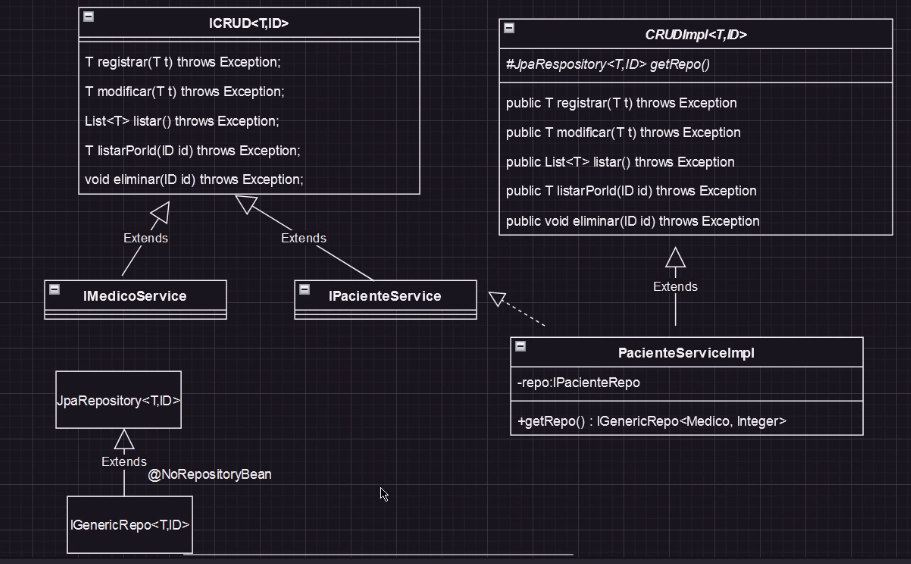
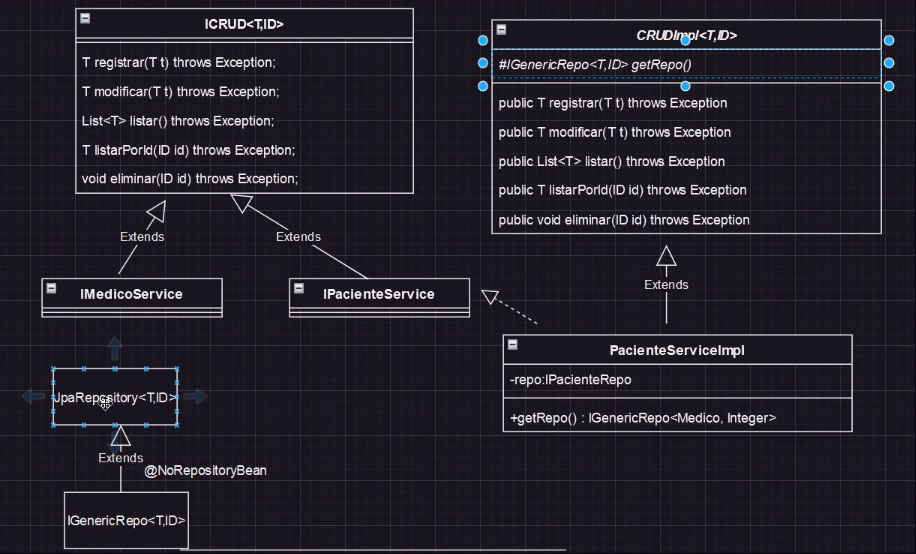
dia6v4

diff --git a/WorkSpace/Spring/Lambdas23-05-2023/src/main/java/com/softtek/lambdas23052023/Lambdas23052023Application.java b/WorkSpace/Spring/Lambdas23-05-2023/src/main/java/com/softtek/lambdas23052023/Lambdas23052023Application.java
@@ -1,6 +1,7 @@
 package com.softtek.lambdas23052023;
 
 import com.softtek.lambdas23052023.controller.Controller;
+import com.softtek.lambdas23052023.dto.ProductDto;
 import com.softtek.lambdas23052023.model.Customer;
 import com.softtek.lambdas23052023.model.Order;
 import com.softtek.lambdas23052023.model.Product;
@@ -28,6 +29,7 @@ public class Lambdas23052023Application implements CommandLineRunner {
         List<Product> products = c.listAllProducts();
         List<Order> orders = c.listAllOrders();
         List<Customer> customers = c.listAllCustomers();
+        List<ProductDto> productDtos = c.listProductsDto();
 
 //        --Obtener todos los registros y todos los campos de la tabla de productos
         products.stream().forEach(System.out::println);
@@ -233,5 +235,29 @@ public class Lambdas23052023Application implements CommandLineRunner {
                 .stream()
                 .filter(e -> e.getValue() < 100)
                 .forEach(er-> System.out.println(er.getKey()+":"+er.getValue()));
+
+        System.out.println("Cosas con DTOs:");
+        //Ejercicios con DTOs
+        //--Obtener el precio promedio por proveedor de la tabla de productos
+        productDtos.stream()
+                .collect(Collectors.groupingBy(
+                        ProductDto::getSupplierId,
+                        Collectors.averagingDouble(ProductDto::getUnitPrice)))
+                .forEach((a,b)-> System.out.println(a+":"+b));
+        System.out.println();
+        //--Obtener la suma de inventario (UnitsInStock) por SupplierID De la tabla de productos (Products)
+        productDtos.stream()
+                .collect(Collectors.groupingBy(
+                        ProductDto::getSupplierId,
+                        Collectors.summingInt(ProductDto::getUnitsInStock)))
+                .forEach((a,b)-> System.out.println(a+":"+b));
+        System.out.println();
+        //--obtener el precio promedio de los productos por categoria sin contar con los productos descontinuados (Discontinued)
+        productDtos.stream()
+                .filter(p -> p.getDiscontinued()==1)
+                .collect(Collectors.groupingBy(
+                        ProductDto::getCategoryId,
+                        Collectors.averagingDouble(ProductDto::getUnitPrice)))
+                .forEach((a,b) -> System.out.println(a+":"+b));
     }
 }

diff --git a/WorkSpace/Spring/Lambdas23-05-2023/src/main/java/com/softtek/lambdas23052023/controller/Controller.java b/WorkSpace/Spring/Lambdas23-05-2023/src/main/java/com/softtek/lambdas23052023/controller/Controller.java
@@ -1,14 +1,18 @@
 package com.softtek.lambdas23052023.controller;
 
+import com.softtek.lambdas23052023.dto.ProductDto;
 import com.softtek.lambdas23052023.model.Customer;
 import com.softtek.lambdas23052023.model.Order;
 import com.softtek.lambdas23052023.model.Product;
 import com.softtek.lambdas23052023.service.ICustomerService;
 import com.softtek.lambdas23052023.service.IOrderService;
 import com.softtek.lambdas23052023.service.IProductService;
+import com.softtek.lambdas23052023.utils.MapperConfig;
+import org.modelmapper.ModelMapper;
 import org.springframework.beans.factory.annotation.Autowired;
 
 import java.util.List;
+import java.util.stream.Collectors;
 
 @org.springframework.stereotype.Controller
 public class Controller {
@@ -18,6 +22,8 @@ public class Controller {
     private IOrderService os;
     @Autowired
     private ICustomerService cs;
+    @Autowired
+    private ModelMapper modelMapper;
 
     public List<Product> listAllProducts(){
         return ps.listAll();
@@ -26,4 +32,14 @@ public class Controller {
         return os.listAll();
     }
     public List<Customer> listAllCustomers(){return cs.listAll(); }
+
+    //Con DTOs
+
+    public List<ProductDto> listProductsDto(){
+        List<ProductDto> productDtos= ps.listAll()
+                .stream()
+                .map(p -> modelMapper.map(p,ProductDto.class))
+                .toList();
+        return productDtos;
+    }
 }

diff --git a/WorkSpace/Spring/Lambdas23-05-2023/src/main/java/com/softtek/lambdas23052023/service/CustomerService.java b/WorkSpace/Spring/Lambdas23-05-2023/src/main/java/com/softtek/lambdas23052023/service/CustomerService.java
@@ -1,19 +1,19 @@
 package com.softtek.lambdas23052023.service;
 
 import com.softtek.lambdas23052023.model.Customer;
+import com.softtek.lambdas23052023.repository.CrudImpl;
 import com.softtek.lambdas23052023.repository.ICustomerRepository;
+import com.softtek.lambdas23052023.repository.IGenericRepo;
 import org.springframework.beans.factory.annotation.Autowired;
 import org.springframework.stereotype.Service;
 
-import java.util.List;
-
 @Service
-public class CustomerService implements ICustomerService{
+public class CustomerService extends CrudImpl<Customer, String> implements ICustomerService{
     @Autowired
     private ICustomerRepository cr;
 
     @Override
-    public List<Customer> listAll() {
-        return cr.findAll();
+    protected IGenericRepo<Customer, String> getRepo() {
+        return cr;
     }
 }

diff --git a/WorkSpace/Spring/Lambdas23-05-2023/src/main/java/com/softtek/lambdas23052023/service/ProductService.java b/WorkSpace/Spring/Lambdas23-05-2023/src/main/java/com/softtek/lambdas23052023/service/ProductService.java
@@ -1,19 +1,19 @@
 package com.softtek.lambdas23052023.service;
 
 import com.softtek.lambdas23052023.model.Product;
+import com.softtek.lambdas23052023.repository.CrudImpl;
+import com.softtek.lambdas23052023.repository.IGenericRepo;
 import com.softtek.lambdas23052023.repository.IProductRepository;
 import org.springframework.beans.factory.annotation.Autowired;
 import org.springframework.stereotype.Service;
 
-import java.util.List;
-
 @Service
-public class ProductService implements IProductService{
+public class ProductService extends CrudImpl<Product,Short> implements IProductService{
     @Autowired
     private IProductRepository pr;
 
     @Override
-    public List<Product> listAll() {
-        return pr.findAll();
+    protected IGenericRepo<Product, Short> getRepo() {
+        return pr;
     }
 }

diff --git a/WorkSpace/Spring/Lambdas23-05-2023/src/main/java/com/softtek/lambdas23052023/service/OrderService.java b/WorkSpace/Spring/Lambdas23-05-2023/src/main/java/com/softtek/lambdas23052023/service/OrderService.java
@@ -1,19 +1,19 @@
 package com.softtek.lambdas23052023.service;
 
 import com.softtek.lambdas23052023.model.Order;
+import com.softtek.lambdas23052023.repository.CrudImpl;
+import com.softtek.lambdas23052023.repository.IGenericRepo;
 import com.softtek.lambdas23052023.repository.IOrderRepository;
 import org.springframework.beans.factory.annotation.Autowired;
 import org.springframework.stereotype.Service;
 
-import java.util.List;
-
 @Service
-public class OrderService implements IOrderService{
+public class OrderService extends CrudImpl<Order,Short> implements IOrderService{
     @Autowired
     IOrderRepository or;
 
     @Override
-    public List<Order> listAll() {
-        return or.findAll();
+    protected IGenericRepo<Order, Short> getRepo() {
+        return or;
     }
 }

diff --git a/WorkSpace/Spring/Lambdas23-05-2023/src/main/java/com/softtek/lambdas23052023/dto/ProductDto.java b/WorkSpace/Spring/Lambdas23-05-2023/src/main/java/com/softtek/lambdas23052023/dto/ProductDto.java
@@ -1,0 +1,17 @@
+package com.softtek.lambdas23052023.dto;
+
+import jakarta.persistence.Column;
+import lombok.AllArgsConstructor;
+import lombok.Data;
+import lombok.NoArgsConstructor;
+
+@NoArgsConstructor
+@AllArgsConstructor
+@Data
+public class ProductDto {
+    private short supplierId;
+    private short categoryId;
+    private double unitPrice;
+    private short unitsInStock;
+    private int discontinued;
+}

diff --git a/WorkSpace/Spring/Lambdas23-05-2023/src/main/java/com/softtek/lambdas23052023/utils/MapperConfig.java b/WorkSpace/Spring/Lambdas23-05-2023/src/main/java/com/softtek/lambdas23052023/utils/MapperConfig.java
@@ -1,0 +1,13 @@
+package com.softtek.lambdas23052023.utils;
+
+import org.modelmapper.ModelMapper;
+import org.springframework.context.annotation.Bean;
+import org.springframework.context.annotation.Configuration;
+
+@Configuration
+public class MapperConfig {
+    @Bean
+    public ModelMapper modelMapper(){
+        return new ModelMapper();
+    }
+}

diff --git a/WorkSpace/Spring/Lambdas23-05-2023/src/main/java/com/softtek/lambdas23052023/repository/ICustomerRepository.java b/WorkSpace/Spring/Lambdas23-05-2023/src/main/java/com/softtek/lambdas23052023/repository/ICustomerRepository.java
@@ -1,7 +1,6 @@
 package com.softtek.lambdas23052023.repository;
 
 import com.softtek.lambdas23052023.model.Customer;
-import org.springframework.data.jpa.repository.JpaRepository;
 
-public interface ICustomerRepository extends JpaRepository<Customer,String> {
+public interface ICustomerRepository extends IGenericRepo<Customer,String> {
 }

diff --git a/WorkSpace/Spring/Lambdas23-05-2023/src/main/java/com/softtek/lambdas23052023/repository/IProductRepository.java b/WorkSpace/Spring/Lambdas23-05-2023/src/main/java/com/softtek/lambdas23052023/repository/IProductRepository.java
@@ -1,7 +1,6 @@
 package com.softtek.lambdas23052023.repository;
 
 import com.softtek.lambdas23052023.model.Product;
-import org.springframework.data.jpa.repository.JpaRepository;
 
-public interface IProductRepository extends JpaRepository<Product,Short> {
+public interface IProductRepository extends IGenericRepo<Product,Short> {
 }

diff --git a/WorkSpace/Spring/Lambdas23-05-2023/src/main/java/com/softtek/lambdas23052023/service/ICustomerService.java b/WorkSpace/Spring/Lambdas23-05-2023/src/main/java/com/softtek/lambdas23052023/service/ICustomerService.java
@@ -1,9 +1,7 @@
 package com.softtek.lambdas23052023.service;
 
 import com.softtek.lambdas23052023.model.Customer;
+import com.softtek.lambdas23052023.repository.ICrud;
 
-import java.util.List;
-
-public interface ICustomerService {
-    List<Customer> listAll();
+public interface ICustomerService extends ICrud<Customer,String> {
 }

diff --git a/WorkSpace/Spring/Lambdas23-05-2023/src/main/java/com/softtek/lambdas23052023/service/IProductService.java b/WorkSpace/Spring/Lambdas23-05-2023/src/main/java/com/softtek/lambdas23052023/service/IProductService.java
@@ -1,9 +1,7 @@
 package com.softtek.lambdas23052023.service;
 
 import com.softtek.lambdas23052023.model.Product;
+import com.softtek.lambdas23052023.repository.ICrud;
 
-import java.util.List;
-
-public interface IProductService {
-    List<Product> listAll();
+public interface IProductService extends ICrud<Product,Short> {
 }

diff --git a/WorkSpace/Spring/Lambdas23-05-2023/src/main/java/com/softtek/lambdas23052023/repository/IOrderRepository.java b/WorkSpace/Spring/Lambdas23-05-2023/src/main/java/com/softtek/lambdas23052023/repository/IOrderRepository.java
@@ -1,7 +1,6 @@
 package com.softtek.lambdas23052023.repository;
 
 import com.softtek.lambdas23052023.model.Order;
-import org.springframework.data.jpa.repository.JpaRepository;
 
-public interface IOrderRepository extends JpaRepository<Order, Short> {
+public interface IOrderRepository extends IGenericRepo<Order, Short> {
 }
